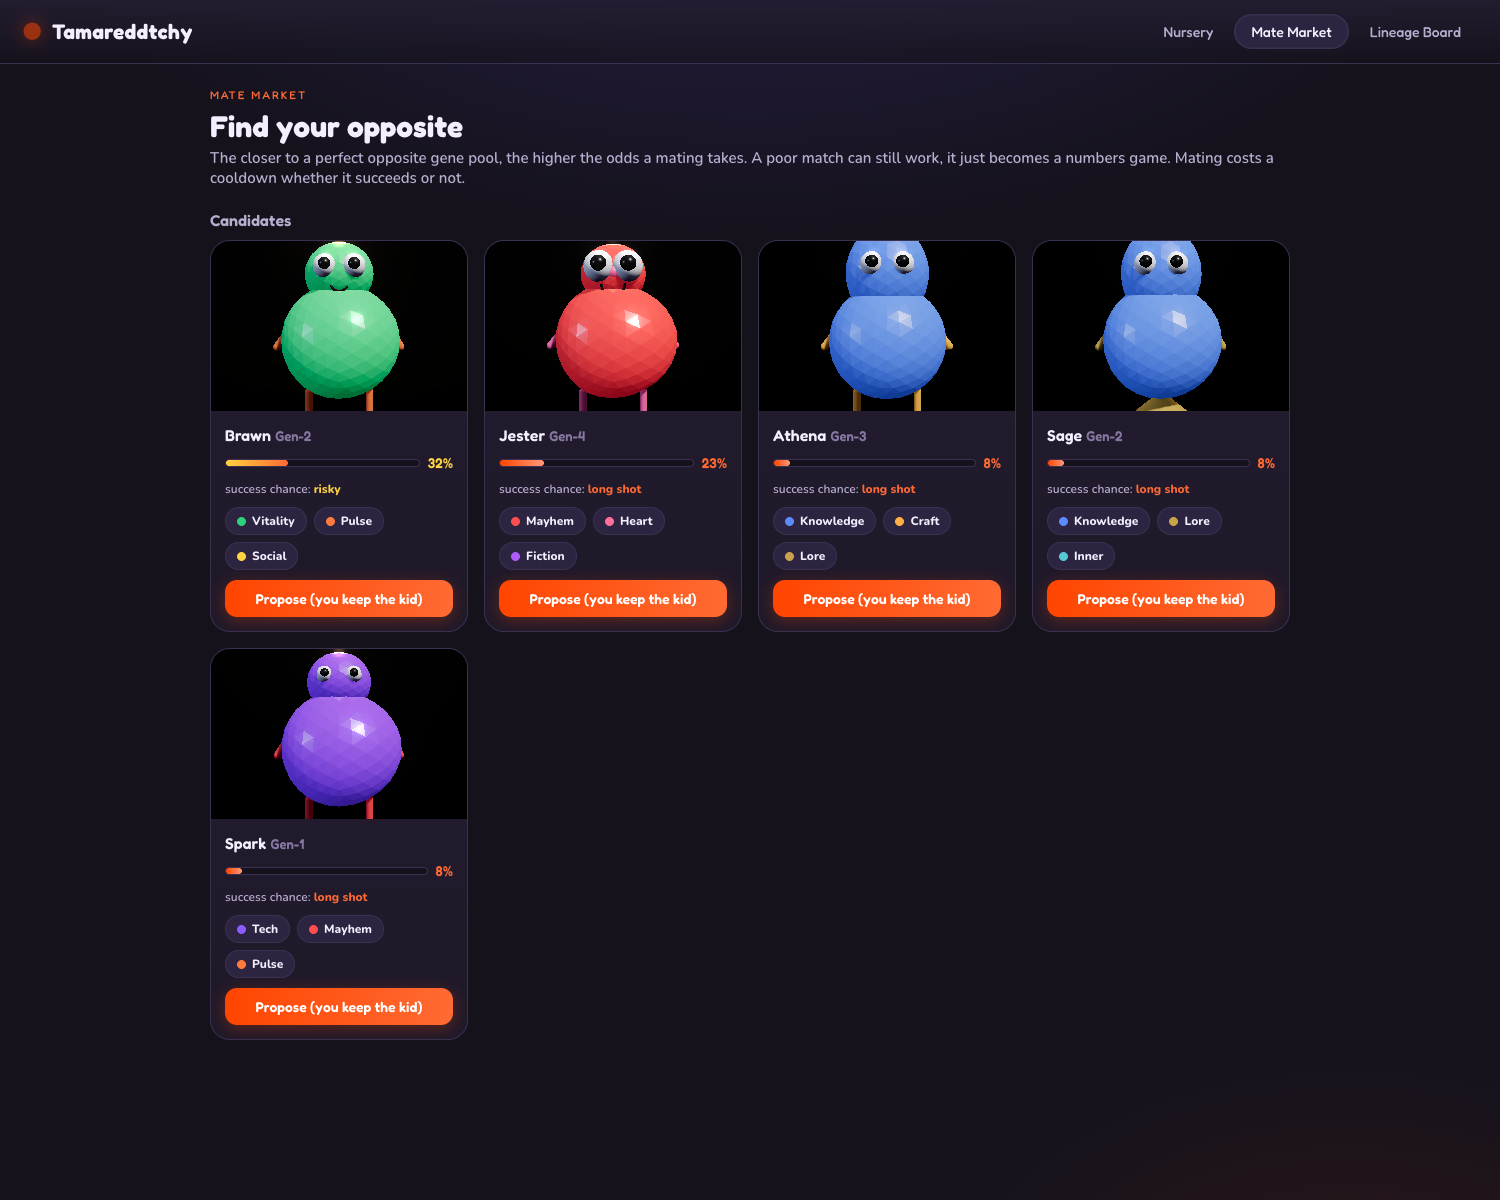
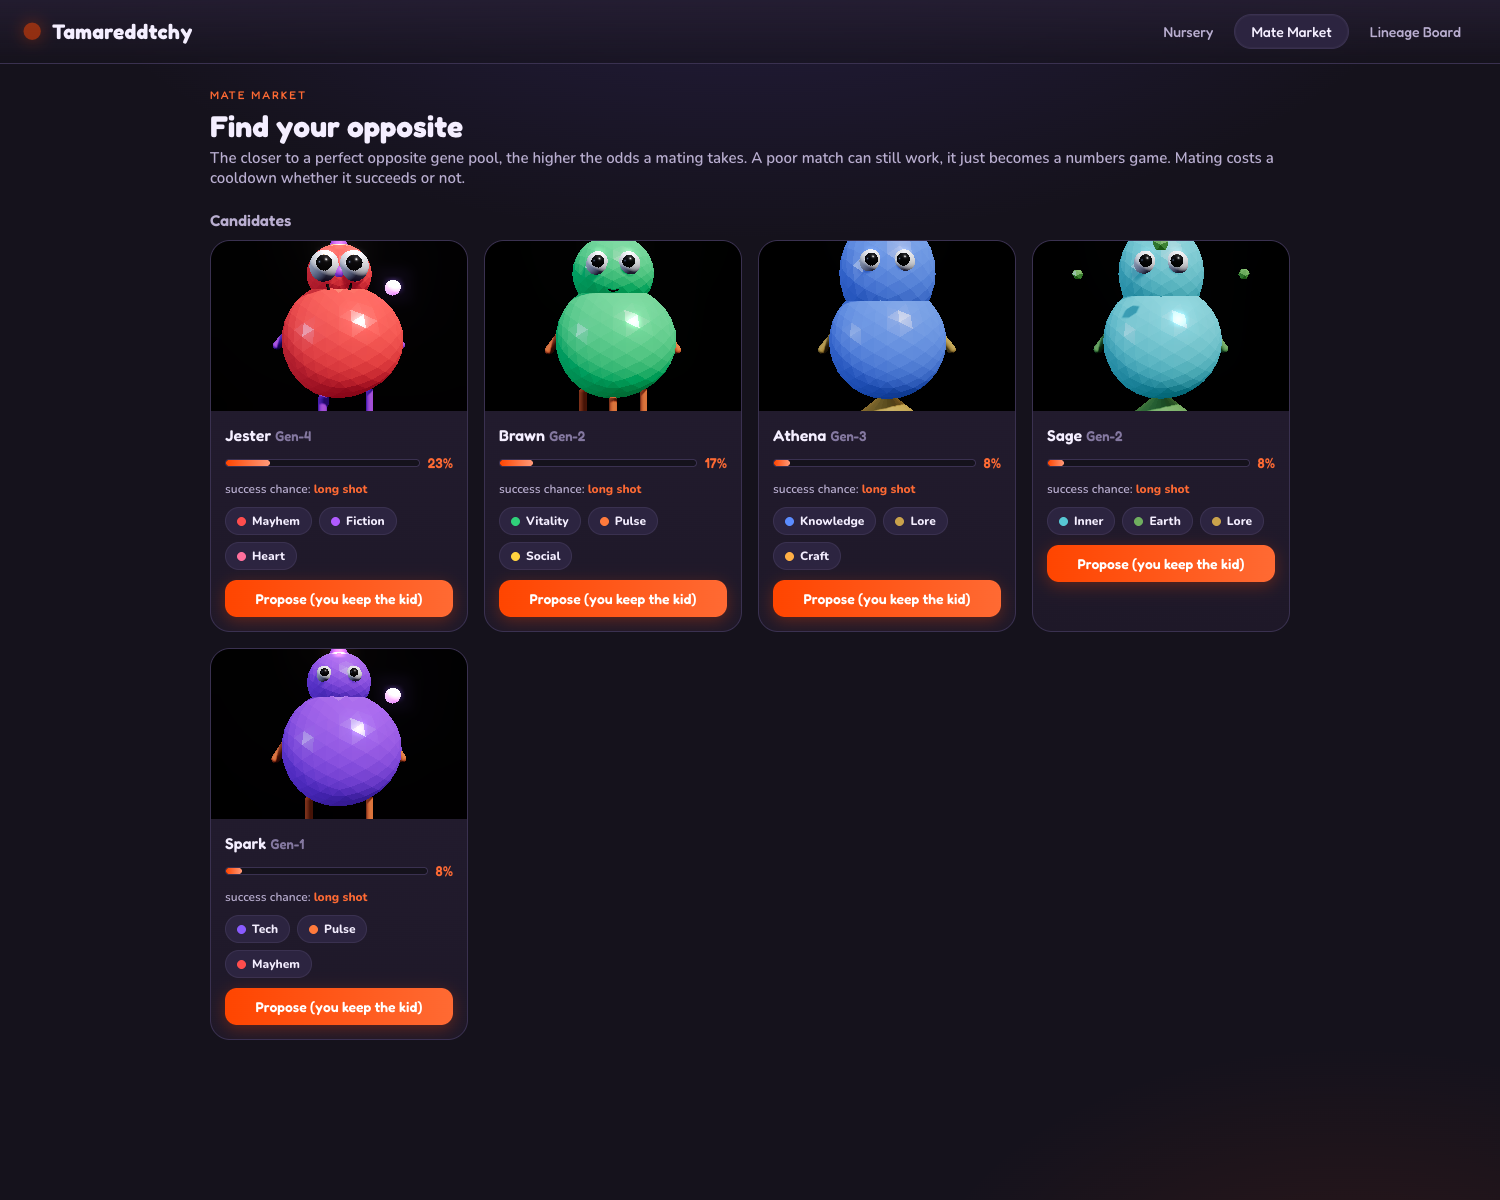
fix: gene mixing produced shrunk copies of the bigger parent
Root cause (two compounding bugs):
1. blend() averaged RAW gene values, so when parents differed in total
   magnitude the larger parent dominated the child's shape entirely. The
   preview was just a scaled-down copy of the big parent.
2. mock rivals were near-empty (72 mag vs the player's 855), making every
   pairing maximally lopsided.

Fix:
- blend() now mixes the parents' NORMALIZED profiles (each parent's genetic
  signature) in equal measure, then scales to a child magnitude. Both parents
  contribute to the child's identity regardless of size. Complementary parents
  still yield a broadly-developed child (hybrid vigor on divergent genes).
- rivals seeded as developed adults with substantial, varied genomes.

Verified: Pixel x Brawn child dominants went from knowledge,tech,earth,lore
(pure Pixel) to vitality,pulse,social,knowledge (a real cross). New regression
test 'inherits from BOTH', 30 tests pass.

diff --git a/src/shared/genome.ts b/src/shared/genome.ts
@@ -112,18 +112,42 @@ export function scoreGenetics(g: Genome): number {
   return Math.round((0.4 * magTerm + 0.6 * devTerm) * 100);
 }
 
-// Offspring genome from two parents. Each gene is the average of the parents,
-// nudged toward the stronger parent on that gene. The payoff comes from
-// COMPLEMENTARY parents: when one parent is high where the other is low, the
-// child ends up strong on both sides of those pairs, which scoreGenetics
-// rewards. Two similar parents average to a mushy middle and score poorly.
+// Offspring genome from two parents.
+//
+// The key idea: a creature passes on its genetic SIGNATURE (which genes dominate,
+// as a proportion of itself), not its raw size. A small creature that is purely
+// Vitality is "100% Vitality" and passes that on just as strongly as a huge
+// creature passes its dominant gene. So we mix the two parents' NORMALIZED
+// profiles in equal measure, then scale the result up to a child magnitude. This
+// is what makes a real mix: blend a Knowledge giant with a tiny Vitality rival
+// and the child is genuinely Knowledge AND Vitality, not just a shrunk giant.
+//
+// Averaging raw values (the old approach) let the bigger parent dominate the
+// child's shape entirely whenever the parents differed in size, which made every
+// preview look like the larger parent.
 export function blend(a: Genome, b: Genome): Genome {
+  const magA = totalMagnitude(a) || 1;
+  const magB = totalMagnitude(b) || 1;
+
+  // Each parent contributes its profile (gene / own total), weighted equally.
+  // Genes where the two profiles diverge get a hybrid-vigor boost, so crossing
+  // distant gene pools yields a broadly-developed child (the design's payoff).
   const child = emptyGenome();
+  let raw = 0;
   for (const gene of GENES) {
-    const avg = (a[gene] + b[gene]) / 2;
-    const hybridVigor = Math.abs(a[gene] - b[gene]) * 0.35; // reward divergence
-    child[gene] = Math.round(avg + hybridVigor);
+    const pa = a[gene] / magA; // a's share of itself on this gene
+    const pb = b[gene] / magB; // b's share of itself on this gene
+    const mixed = (pa + pb) / 2;
+    const hybridVigor = Math.abs(pa - pb) * 0.5; // reward divergence between profiles
+    child[gene] = mixed + hybridVigor;
+    raw += child[gene];
   }
+
+  // Scale the mixed profile up to a child magnitude: the average of the parents'
+  // sizes, so a child is roughly as substantial as its parents rather than tiny.
+  const targetMag = (magA + magB) / 2;
+  const scale = raw > 0 ? targetMag / raw : 0;
+  for (const gene of GENES) child[gene] = Math.round(child[gene] * scale);
   return child;
 }
 

diff --git a/src/client/api.ts b/src/client/api.ts
@@ -3,7 +3,7 @@
 // in-memory mock seeded with a few rival creatures so every screen has content.
 // Same shapes either way, so the UI never knows the difference.
 
-import { type Gene, type Genome, dominantGenes } from "../shared/genome.js";
+import { GENES, type Gene, type Genome, dominantGenes } from "../shared/genome.js";
 import {
   type Creature,
   type FeedKind,
@@ -55,17 +55,22 @@ const ME = "u_me";
 const MY_NAME = "you";
 
 function seedRivals(): Creature[] {
-  const mk = (id: string, name: string, diet: Gene[], gen: number, xp = 500): Creature => {
-    let c = hatch({ id, ownerId: id, name, homeSub: "tamareddtchy", diet, now: now() - 86_400_000 });
-    c = { ...c, xp, generation: gen };
-    return c;
+  // Rivals are DEVELOPED adults, not freshly hatched eggs. A real opponent has a
+  // substantial genome (a few hundred points), otherwise breeding with it is
+  // lopsided and the offspring just looks like the bigger parent. `weights` are
+  // relative; we scale them up to a believable adult magnitude.
+  const mk = (id: string, name: string, gen: number, weights: Partial<Record<Gene, number>>): Creature => {
+    const base = hatch({ id, ownerId: id, name, homeSub: "tamareddtchy", diet: [], now: now() - 86_400_000 });
+    const genome = { ...base.genome };
+    for (const g of GENES) genome[g] = Math.round((weights[g] ?? 0) * 28);
+    return { ...base, genome, xp: 520, generation: gen };
   };
   return [
-    mk("u_athena", "Athena", ["knowledge", "knowledge", "lore", "craft"], 3),
-    mk("u_brawn", "Brawn", ["vitality", "vitality", "social", "pulse"], 2),
-    mk("u_jester", "Jester", ["mayhem", "mayhem", "fiction", "heart"], 4),
-    mk("u_sage", "Sage", ["inner", "earth", "knowledge", "lore"], 2),
-    mk("u_spark", "Spark", ["tech", "tech", "pulse", "mayhem"], 1),
+    mk("u_athena", "Athena", 3, { knowledge: 5, lore: 4, craft: 3, inner: 2 }),
+    mk("u_brawn", "Brawn", 2, { vitality: 5, social: 4, pulse: 4, mayhem: 2 }),
+    mk("u_jester", "Jester", 4, { mayhem: 5, fiction: 4, heart: 3, social: 2 }),
+    mk("u_sage", "Sage", 2, { inner: 5, earth: 4, lore: 3, knowledge: 2 }),
+    mk("u_spark", "Spark", 1, { tech: 5, pulse: 4, mayhem: 3, fiction: 2 }),
   ];
 }
 

diff --git a/src/shared/genome.test.ts b/src/shared/genome.test.ts
@@ -7,6 +7,7 @@ import {
   blend,
   complement,
   complementarity,
+  dominantGenes,
 } from "./genome.js";
 import {
   hatch,
@@ -80,6 +81,28 @@ describe("blend rewards complementary parents (the central balance claim)", () =
     expect(scoreGenetics(complementaryChild)).toBeGreaterThan(
       scoreGenetics(similarChild),
     );
+  });
+
+  it("a child of differently-sized parents inherits from BOTH, not just the big one", () => {
+    // The bug: a large player (855 mag) bred with a small rival (72 mag) used to
+    // produce a child that was just a shrunk copy of the large parent, because
+    // blend averaged raw values. The child must carry the small parent's identity
+    // too: its dominant genes must differ from the big parent's, and it must be
+    // strong in at least one of the small parent's top genes.
+    const big = genomeFrom({
+      knowledge: 140, vitality: 60, tech: 120, heart: 40, craft: 90, mayhem: 35,
+      pulse: 30, lore: 95, inner: 80, social: 25, earth: 110, fiction: 30,
+    });
+    const small = genomeFrom({ vitality: 36, pulse: 18, social: 18 }); // tiny, opposite-ish
+    const child = blend(big, small);
+
+    const bigDom = dominantGenes(big)[0]; // knowledge
+    const childDom = dominantGenes(child).slice(0, 4);
+    // The child must not simply mirror the big parent's whole dominance order.
+    expect(childDom).not.toEqual(dominantGenes(big).slice(0, 4));
+    // The child must be visibly strong in the small parent's signature gene.
+    const smallTop = dominantGenes(small)[0]; // vitality
+    expect(child[smallTop]).toBeGreaterThan(child[bigDom] * 0.5);
   });
 
   it("complementarity is high for opposites and low for twins", () => {